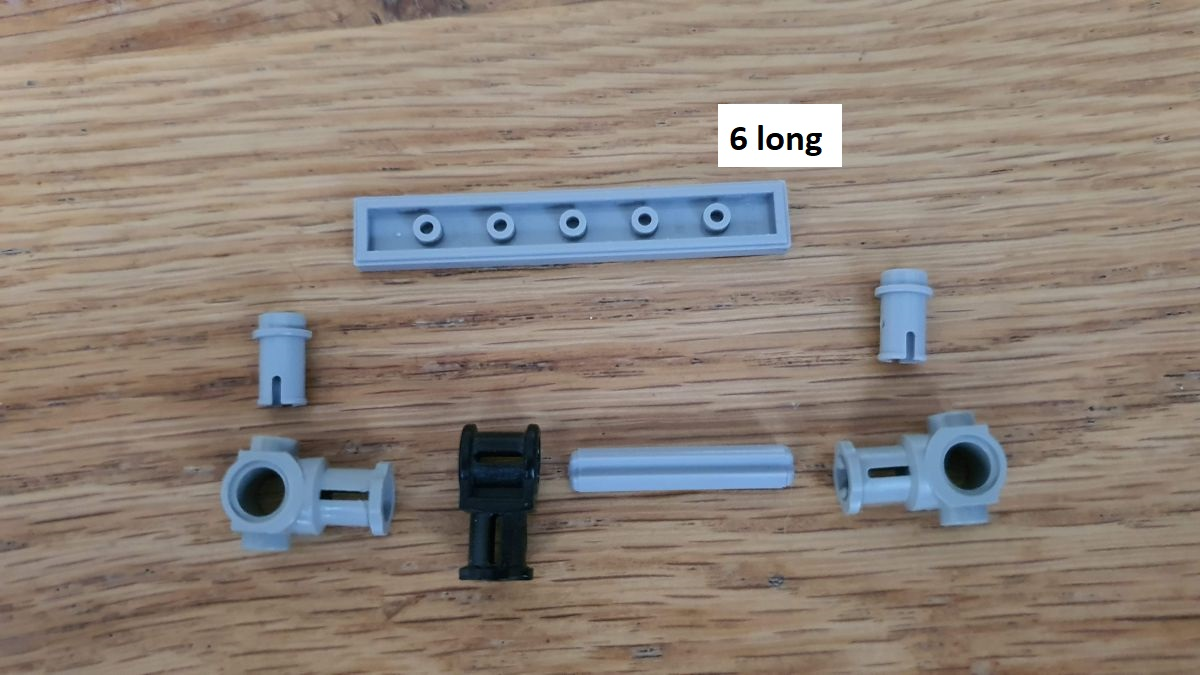
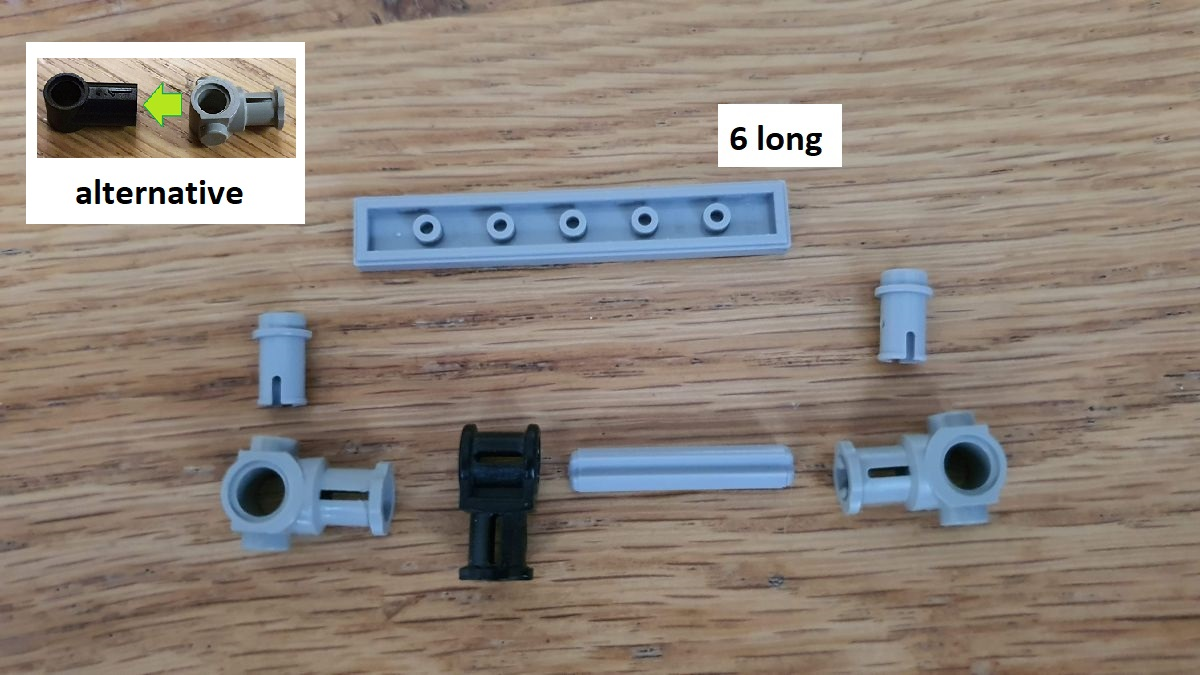
alternative

Changed region(s): [[0.0, 0.0622, 0.2775, 0.3422]]

diff --git a/model/readme.md b/model/readme.md
@@ -24,9 +24,6 @@ which holds the _hand rest_ and the _camera holder_.
 **Step 1.03** This will fix the paperboard at the bottom ...
 ![Step1.03](screen/step1.03.jpg)
 
-(you may use this as alternative)
-![Step1.03a](screen/step1.03a.jpg)
-
 **Step 1.04** ... assembled ...
 ![Step1.04](screen/step1.04.jpg)
 
